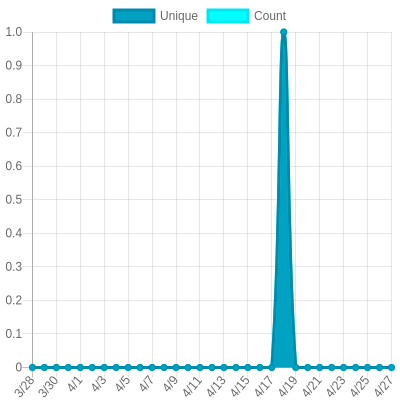
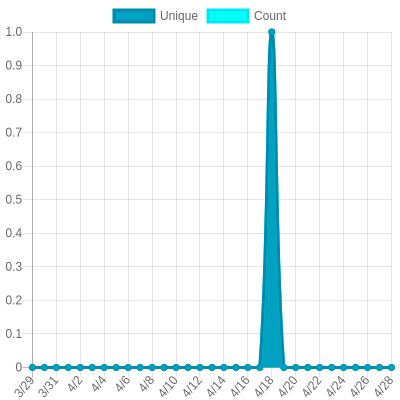
Update views

diff --git a/readme/373474678/month.md b/readme/373474678/month.md
@@ -21,6 +21,17 @@
 	</tr>
 	<tr>
 		<td>
+			<code>2026/4/28</code>
+		</td>
+		<td>
+			<code>0</code>
+		</td>
+		<td>
+			<code>0</code>
+		</td>
+	</tr>
+	<tr>
+		<td>
 			<code>2026/4/27</code>
 		</td>
 		<td>
@@ -349,21 +360,10 @@
 			<code>0</code>
 		</td>
 	</tr>
-	<tr>
-		<td>
-			<code>2026/3/28</code>
-		</td>
-		<td>
-			<code>0</code>
-		</td>
-		<td>
-			<code>0</code>
-		</td>
-	</tr>
 </table>
 
 </details>
-<small><i>Last updated on 2026/4/27 7:16 PM UTC</i></small>
+<small><i>Last updated on 2026/4/28 2:41 AM UTC</i></small>
 
 ## ✂Copy and 📋 Paste
 ### SVG Badge

diff --git a/readme/373474678/week.md b/readme/373474678/week.md
@@ -21,6 +21,17 @@
 	</tr>
 	<tr>
 		<td>
+			<code>2026/4/28</code>
+		</td>
+		<td>
+			<code>0</code>
+		</td>
+		<td>
+			<code>0</code>
+		</td>
+	</tr>
+	<tr>
+		<td>
 			<code>2026/4/27</code>
 		</td>
 		<td>
@@ -96,21 +107,10 @@
 			<code>0</code>
 		</td>
 	</tr>
-	<tr>
-		<td>
-			<code>2026/4/20</code>
-		</td>
-		<td>
-			<code>0</code>
-		</td>
-		<td>
-			<code>0</code>
-		</td>
-	</tr>
 </table>
 
 </details>
-<small><i>Last updated on 2026/4/27 7:16 PM UTC</i></small>
+<small><i>Last updated on 2026/4/28 2:41 AM UTC</i></small>
 
 ## ✂Copy and 📋 Paste
 ### SVG Badge

diff --git a/README.md b/README.md
@@ -26,7 +26,7 @@ The project created and maintained by [gayanvoice](https://github.com/gayanvoice
 			</a>
 		</td>
 		<td>
-			2026/4/25 2:08 AM UTC
+			2026/4/26 2:31 AM UTC
 		</td>
 		<td>
 			44
@@ -37,7 +37,7 @@ The project created and maintained by [gayanvoice](https://github.com/gayanvoice
 	</tr>
 </table>
 
-<small><i>Last updated on 2026/4/27 7:16 PM UTC</i></small>
+<small><i>Last updated on 2026/4/28 2:41 AM UTC</i></small>
 
 ## ✂Copy and 📋 Paste
 ### Total Views Badge

diff --git a/readme/373474678/year.md b/readme/373474678/year.md
@@ -165,7 +165,7 @@
 </table>
 
 </details>
-<small><i>Last updated on 2026/4/27 7:16 PM UTC</i></small>
+<small><i>Last updated on 2026/4/28 2:41 AM UTC</i></small>
 
 ## ✂Copy and 📋 Paste
 ### SVG Badge
